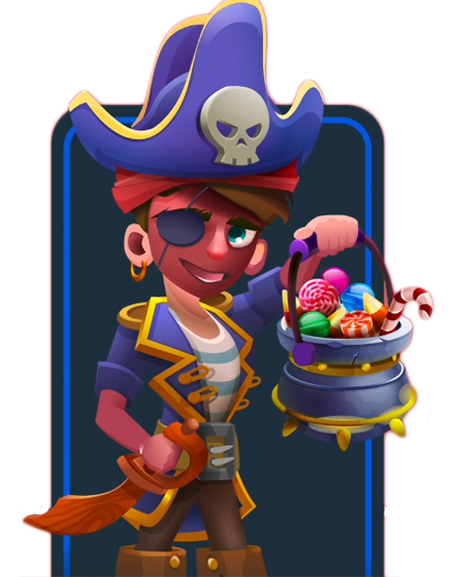
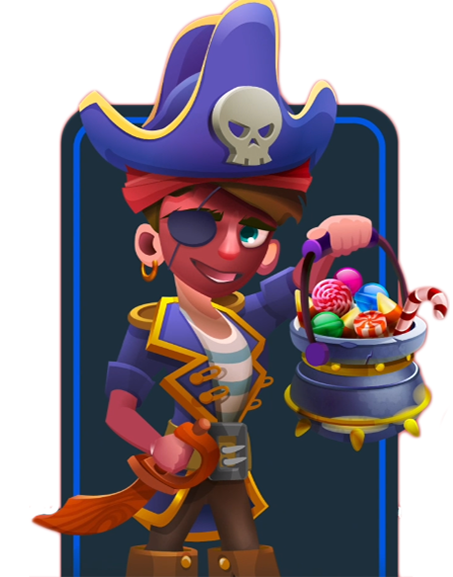
small changes adaptive width/height

diff --git a/style.css b/style.css
@@ -39,7 +39,7 @@ a:hover {
     background-image: url("img/nav_element.png");
     background-repeat: no-repeat;
     background-position: right;
-    margin-left: 15%;
+    margin-left: 25vh;
 }
 
 .header-logo {
@@ -127,7 +127,7 @@ a:hover {
 }
 
 .title {
-    font-size: 70px;
+    font-size: 65px;
     color: white;
     /*padding: 20% 0 2%;*/
     opacity: 1;
@@ -136,7 +136,7 @@ a:hover {
 .content {
     width: 22%;
     text-align: left;
-    margin-left: 15%;
+    margin-left: 22vh;
     z-index: 1000;
     position: absolute;
     bottom: 0;
@@ -144,14 +144,17 @@ a:hover {
 @media only screen and (min-width: 991px) and (max-width: 1200px){
     .content {
         width: 25%;
-        margin-left: 10%;
+        margin-left: 12vh;
+    }
+    .content-card{
+        margin-left: 12vh;
     }
     .main-img {
-        width: 55%;
-        height: 80vh;
+        width: 50%;
+        height: 70vh;
     }
     .header{
-        margin-left: 10%;
+        margin-left: 14vh;
     }
 }
 @media only screen and (min-width: 720px) and (max-width: 991px){
@@ -162,7 +165,7 @@ a:hover {
 .content-card {
     display: none;
     width: 22%;
-    margin-left: 15%;
+    margin-left: 22vh;
     z-index: 1000;
     position: absolute;
     /*top: 30vh;*/

diff --git a/index.html b/index.html
@@ -51,14 +51,9 @@
         </div>
     </div>
 
-
-
-
     <div class="main-img-wrapper">
         <img class="main-img" src="img/all_cards.png"/>
     </div>
-
-
     <div class="single-img-wrapper">
         <img id="card" class="single-img" src="img/card1.png"/>
         <button id="carouselBtn">next</button>
